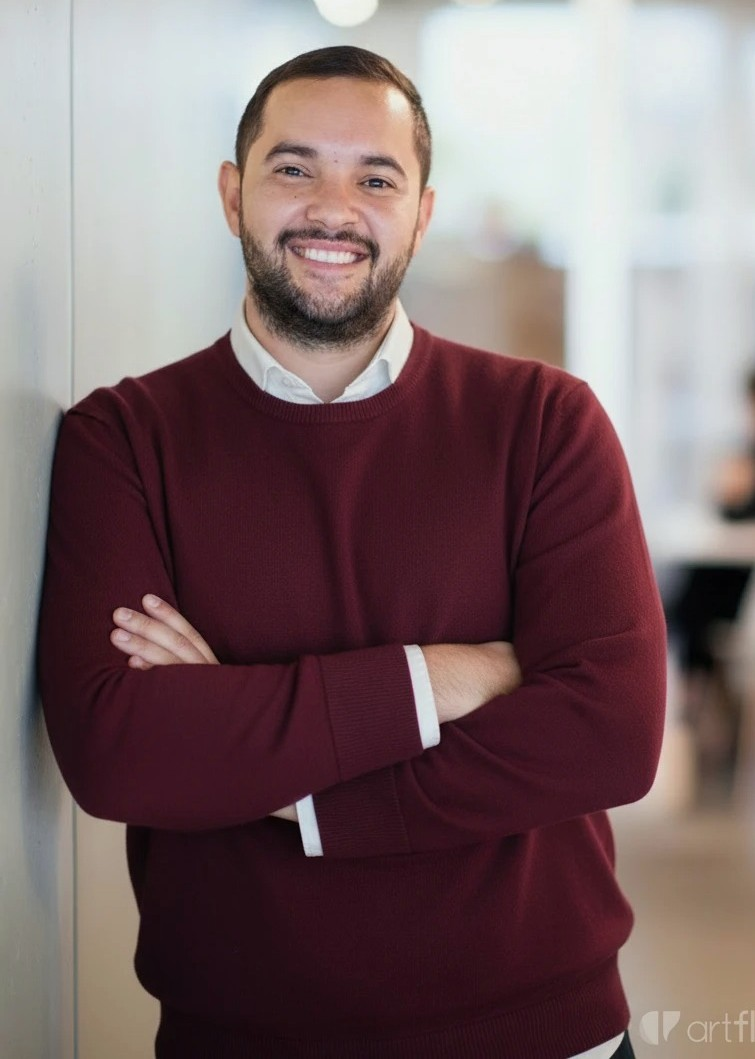
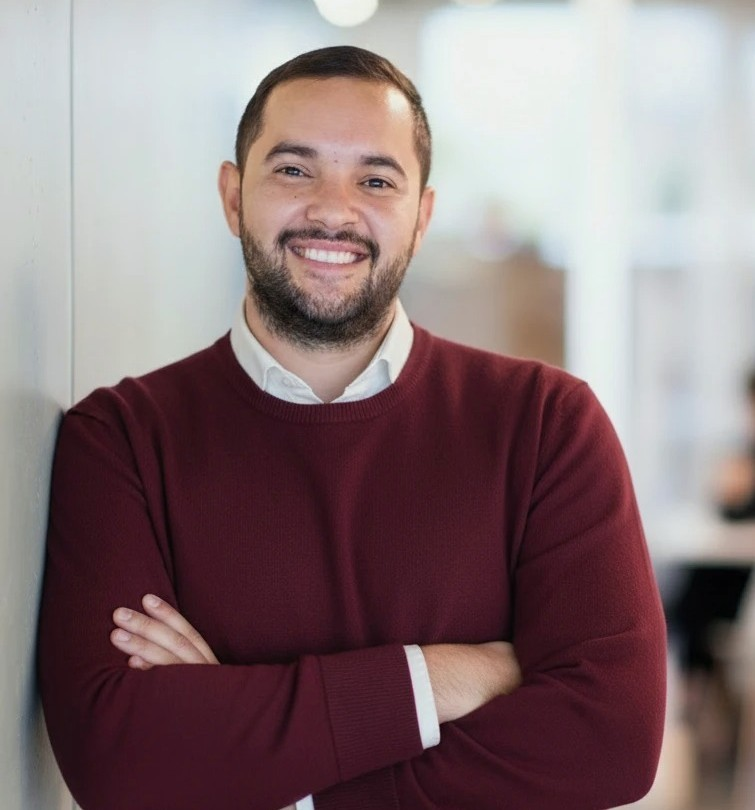
cambio de iconos

diff --git a/app/globals.css b/app/globals.css
@@ -1,12 +1,14 @@
 @import "tailwindcss";
 
 @theme inline {
-  --color-background: #0F172A;
-  --color-background-secondary: #1E293B;
-  --color-foreground: #F8FAFC;
-  --color-foreground-secondary: #CBD5E1;
-  --color-accent: #3B82F6;
-  --color-accent-hover: #06B6D4;
+  --color-background: #F8FAFC;
+  --color-background-secondary: #EEF4FF;
+  --color-card: #FFFFFF;
+  --color-foreground: #0F172A;
+  --color-foreground-secondary: #334155;
+  --color-accent: #2563EB;
+  --color-accent-hover: #3B82F6;
+  --color-border: #CBD5E1;
   --font-sans: Inter, sans-serif;
 }
 
@@ -19,37 +21,9 @@ html {
 }
 
 body {
-  background: 
-    radial-gradient(
-      ellipse 80% 50% at top right,
-      rgba(59, 130, 246, 0.12),
-      transparent 50%
-    ),
-    linear-gradient(
-      180deg,
-      #0F172A 0%,
-      #111827 45%,
-      #0B1120 100%
-    );
-  background-attachment: fixed;
-  background-size: cover;
+  background: #FFFFFF;
   color: var(--color-foreground);
   font-family: Inter, sans-serif;
-  position: relative;
-}
-
-body::before {
-  content: "";
-  position: fixed;
-  top: 0;
-  left: 0;
-  width: 100%;
-  height: 100%;
-  background-image: 
-    radial-gradient(rgba(255, 255, 255, 0.02) 1px, transparent 1px);
-  background-size: 32px 32px;
-  pointer-events: none;
-  z-index: 0;
 }
 
 ::-webkit-scrollbar {
@@ -61,7 +35,7 @@ body::before {
 }
 
 ::-webkit-scrollbar-thumb {
-  background: var(--color-background-secondary);
+  background: var(--color-border);
   border-radius: 4px;
 }
 

diff --git a/app/components/sections/Contact.tsx b/app/components/sections/Contact.tsx
@@ -1,32 +1,30 @@
 "use client";
 
 import { motion } from "framer-motion";
-import { Link, Code, Mail } from "lucide-react";
+import Image from "next/image";
 import FadeIn from "../ui/FadeIn";
 import SectionTitle from "../ui/SectionTitle";
 import Button from "../ui/Button";
+import { Mail } from "lucide-react";
 
 const contactMethods = [
   {
-    icon: Link,
+    image: "/imagen_linkedin.svg",
     label: "LinkedIn",
     description: "Conectemos profesionalmente",
     href: "https://www.linkedin.com/in/rafael-carrillo-mirabal/",
-    color: "from-blue-600 to-blue-700",
   },
   {
-    icon: Code,
+    image: "/imagen_github.svg",
     label: "GitHub",
     description: "Explora mi código",
     href: "https://github.com/racarrillo2",
-    color: "from-gray-700 to-gray-800",
   },
   {
-    icon: Mail,
+    image: "/imagen_gmail.svg",
     label: "Email",
     description: "[email redacted]",
     href: "mailto:[email redacted]",
-    color: "from-red-500 to-red-600",
   },
 ];
 
@@ -51,10 +49,16 @@ export default function Contact() {
                   whileHover={{ y: -4 }}
                 >
                   <motion.div
-                    className={`w-14 h-14 rounded-xl mx-auto mb-4 flex items-center justify-center bg-gradient-to-br ${method.color}`}
+                    className="w-14 h-14 rounded-xl mx-auto mb-4 flex items-center justify-center"
                     whileHover={{ scale: 1.1 }}
                   >
-                    <method.icon className="text-white" size={24} />
+                    <Image
+                      src={method.image}
+                      alt={method.label}
+                      width={32}
+                      height={32}
+                      className="w-8 h-8"
+                    />
                   </motion.div>
                   <h3 className="text-lg font-semibold text-foreground mb-1 group-hover:text-accent transition-colors">
                     {method.label}

diff --git a/app/components/sections/Hero.tsx b/app/components/sections/Hero.tsx
@@ -83,7 +83,7 @@ export default function Hero() {
             <div className="relative flex justify-center lg:justify-end">
               <div className="relative">
                 <motion.div
-                  className="w-64 h-80 md:w-80 md:h-96 rounded-2xl bg-gradient-to-br from-accent/20 to-accent-hover/10"
+                  className="rounded-2xl bg-gradient-to-br from-accent/20 to-accent-hover/10"
                   animate={{
                     boxShadow: [
                       "0 0 60px rgba(59, 130, 246, 0.2)",
@@ -94,16 +94,15 @@ export default function Hero() {
                   transition={{ duration: 3, repeat: Infinity }}
                 />
 
-                <div className="absolute inset-0 flex items-center justify-center p-3">
-                  <div className="w-full h-full rounded-xl overflow-hidden border-2 border-accent/20 shadow-inner">
+                <div className="rounded-xl overflow-hidden border-2 border-accent/20 shadow-inner">
                     <Image
-                      src="/perfil.jpg"
+                      src="/foto_rafael.jpg"
                       alt="Foto de Rafael Carrillo"
-                      fill
-                      className="w-full h-full object-cover object-center"
-                      sizes="(max-width: 768px) 320px, 320px"
+                      width={300}
+                      height={400}
+                      className="w-auto h-auto max-w-[300px] max-h-[400px]"
+                      unoptimized
                     />
-                  </div>
                 </div>
               </div>
             </div>